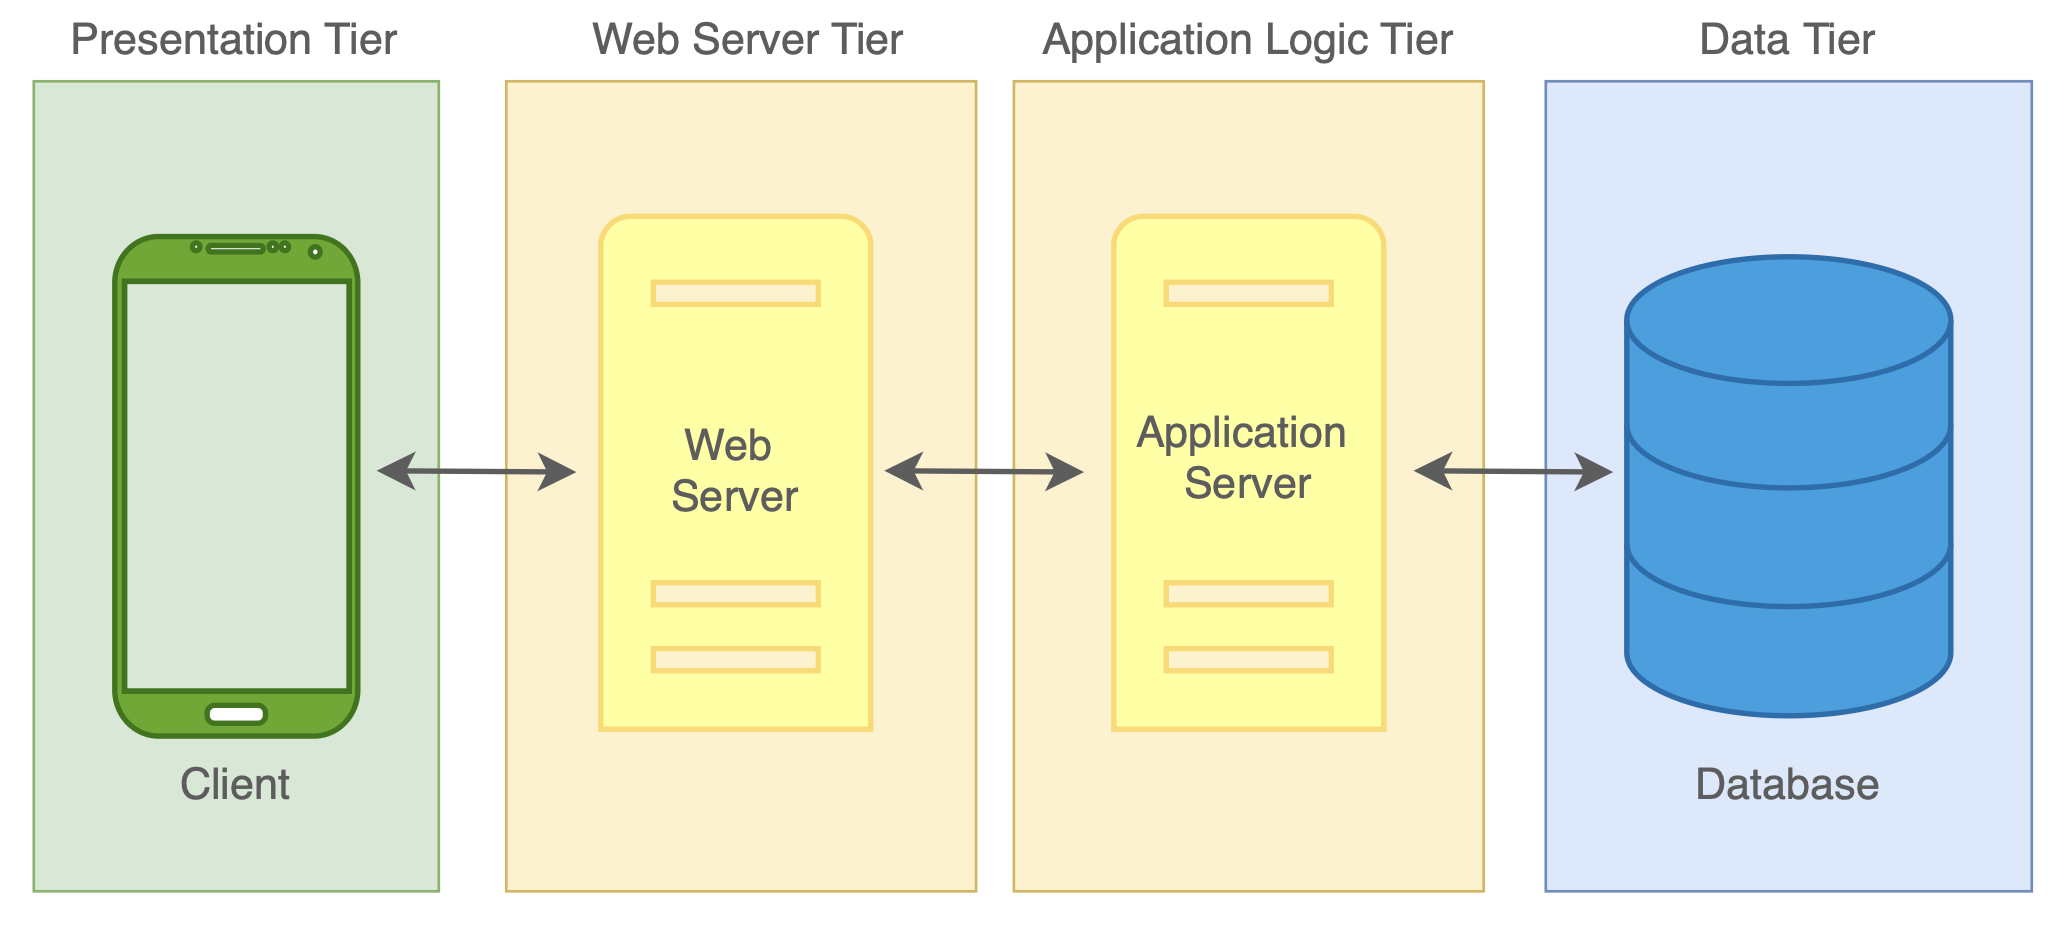
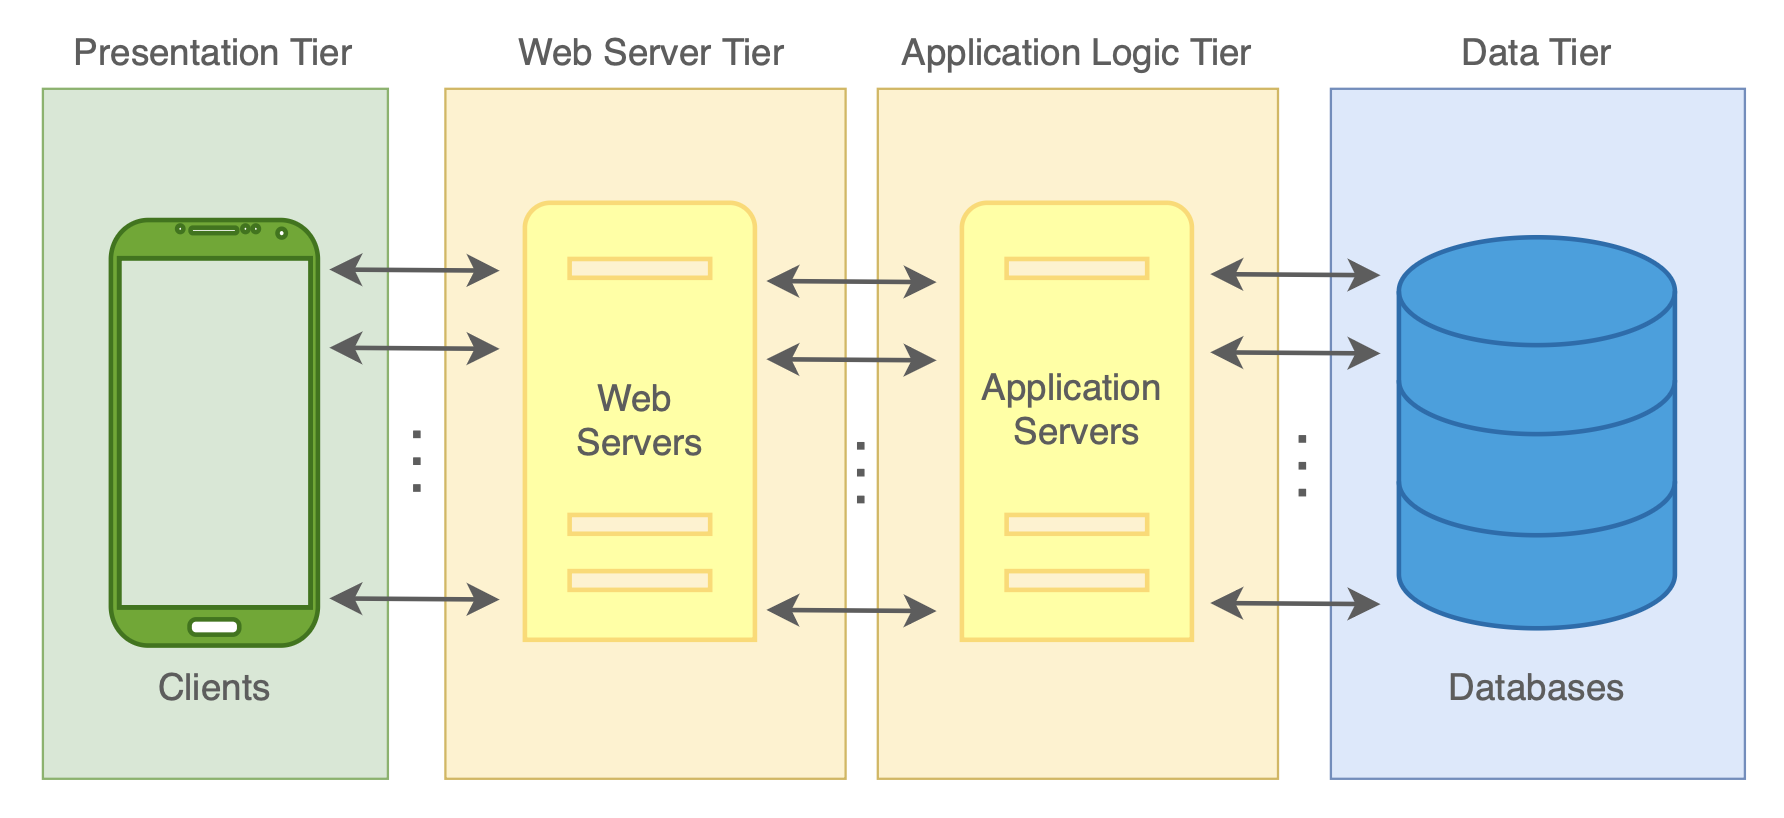
add microservice component view

diff --git a/DD/Files/architectural.tex b/DD/Files/architectural.tex
@@ -36,7 +36,7 @@ The platform consists of several components grouped into two main categories: ba
     \item \textit{ManageSensorsData service}
     \\This service collects data from the mobile sensors (GPS,accelerometer,gyroscope) during the ride of the cyclist. It enriches the route with these information.
     \item \textit{API Gateway}
-\\ This is the entry point for each app request. It forwards each request to the right microservices.    
+    \\ This is the entry point for each app request. It forwards each request to the right microservices.    
     \item \textit{DBMSs}
     \\Each microservice owns its own database to store its data, keeping the services independent.
 \end{itemize}
@@ -45,10 +45,27 @@ The platform consists of several components grouped into two main categories: ba
     \item \textit{User Interface}
     \\ It is the app interface for users. It allows accessing all the features of BPP for the Cyclist and a smaller portion of them for the Guest. 
 \end{itemize}
+\textbf{External components}
+\begin{itemize}
+    \item \textit{WeatherCondition API}
+    \\This external service provides weather data and is called by the \textit{ManageRoute service} and to enrich the details of a route with this piece of data.
+\end{itemize}
 \begin{figure}[H]
 \centering
 \includegraphics[width=\textwidth]{Images/Component Diagram.png}
 \caption{\label{fig:metamodel2}Component diagram}
+\end{figure}
+Additionally, it is useful to provide a more in-depth description of a generic microservice component. It is based on the \textbf{Controller-Service-Repository pattern}, which adds modularity and promotes separation of concerns within the component. This three sub-components operate as follow:
+\begin{itemize}
+\setlength{\itemsep}{0pt}
+    \item The \textit{Controller} is responsible for exposing the component functionalities and it is based on the RESTful architectural style.
+    \item The \textit{Service} acts as intermediary between the two other components of the microservice and contains all the business logic.  
+    \item The \textit{Repository} is responsible for querying the DBMS to retrieve and persist data.
+\end{itemize}
+\begin{figure}[H]
+\centering
+\includegraphics[width=\textwidth]{Images/microservice component diagram.png}
+\caption{\label{fig:metamodel2}Generic microservice component diagram}
 \end{figure}
 \subsection{Deployment view}
 Caching System \\
@@ -56,4 +73,23 @@ This component stores frequently used data in memory  making common requests fas
 \subsection{Runtime view}
 \subsection{Component interfaces}
 \subsection{Selected Architectural Styles and Patterns}
+\textbf{Client-4-tier architecture} 
+\\
+\textbf{Microservice architecture}
+\\
+\textbf{RESTful architectural style}
+\\
+\textbf{Security pattern}
+api gateway\\
+\textbf{Resiliency pattern}
+circuit breaker\\
+\textbf{Communication pattern}
+interazioni con l'utente -> sincrone \\
+salvataggio dati e GPS / operazioni più lunghe -> asincrono\\
+\textbf{Routing pattern}
+\\
 \subsection{Other design decisions}
+perche controller-service-repository invece di model-view-controller \\
+sicurezza: utilizzo firewall e 4 tier \\
+server proxy\\
+distribuzione del carico con load balancer\\
